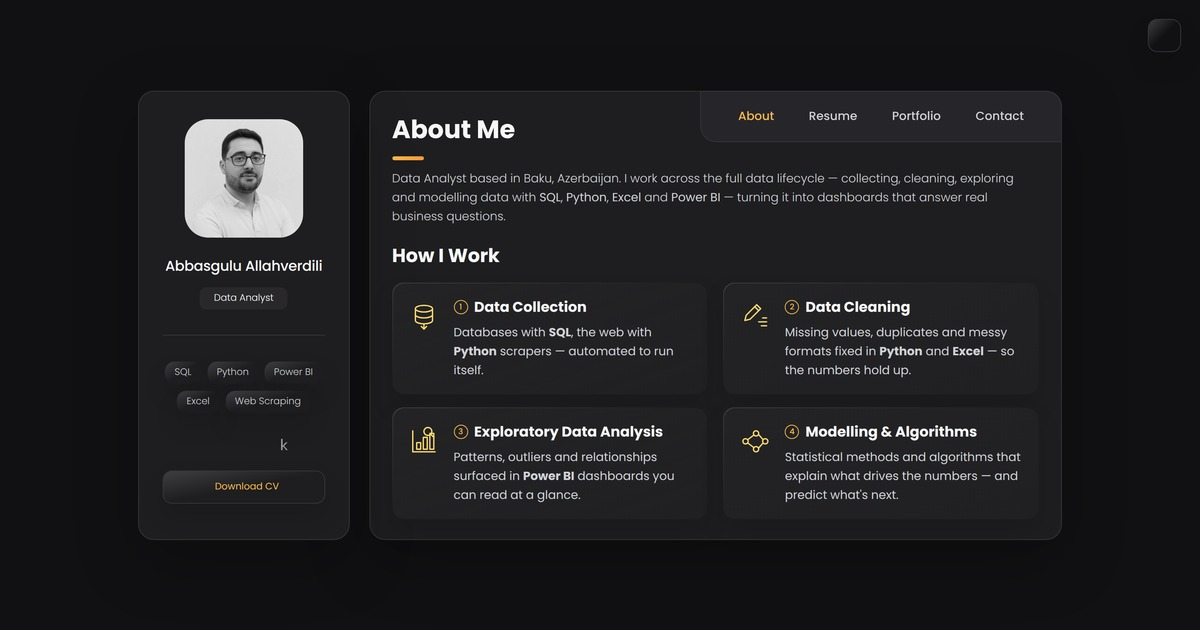
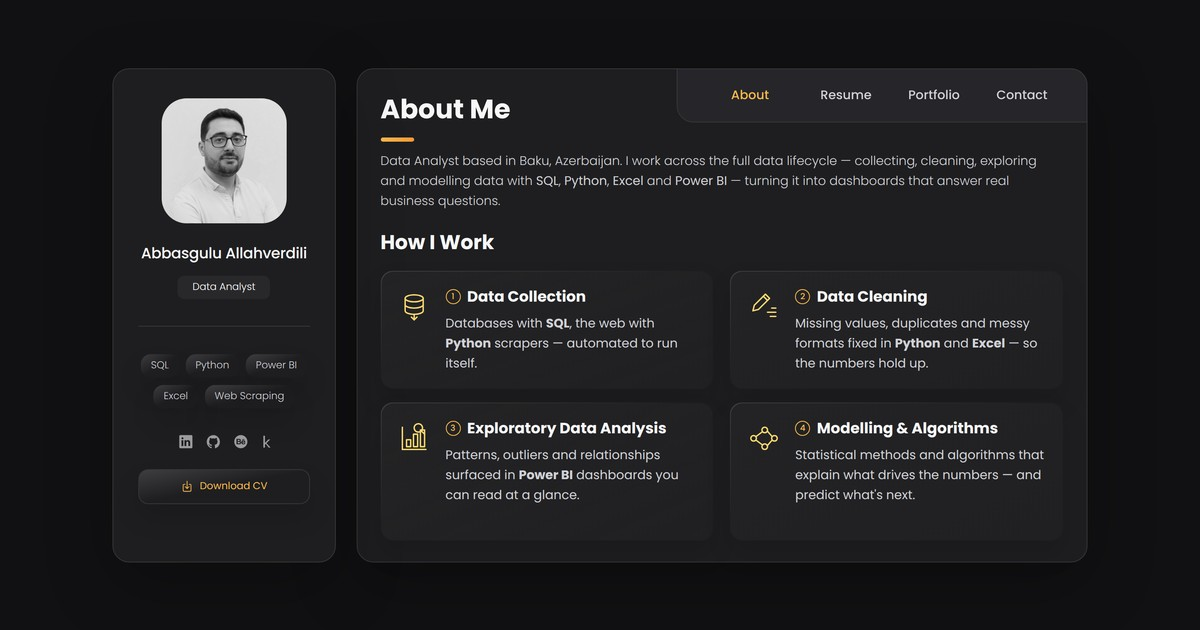
Add Azerbaijani share link and new preview cards

diff --git a/az/index.html b/az/index.html
@@ -1,0 +1,47 @@
+<!DOCTYPE html>
+<html lang="az">
+
+<head>
+  <meta charset="UTF-8">
+  <meta name="viewport" content="width=device-width, initial-scale=1.0">
+  <title>Abbasqulu Allahverdili — Data Analitik</title>
+
+  <!-- the Azerbaijani link to share: LinkedIn, WhatsApp, Telegram etc. read this page's
+       Azerbaijani preview, then visitors are sent on to the site opened in Azerbaijani -->
+  <meta name="description" content="Abbasqulu Allahverdili — Bakıda yaşayan Data Analitik. SQL, Python, Power BI. Açıq dataset-lər, web scraping və dashboard-lar.">
+  <meta name="author" content="Abbasqulu Allahverdili">
+  <meta name="robots" content="noindex, follow">
+
+  <meta property="og:type" content="website">
+  <meta property="og:locale" content="az_AZ">
+  <meta property="og:locale:alternate" content="en_US">
+  <meta property="og:title" content="Abbasqulu Allahverdili — Data Analitik">
+  <meta property="og:description" content="Bakıda yaşayan Data Analitik. SQL, Python, Power BI. Açıq dataset-lər, web scraping və dashboard-lar.">
+  <meta property="og:url" content="https://abbasgulu.github.io/az/">
+  <meta property="og:image" content="https://abbasgulu.github.io/assets/images/social-card-az.jpg">
+  <meta property="og:image:width" content="1200">
+  <meta property="og:image:height" content="630">
+  <meta name="twitter:image" content="https://abbasgulu.github.io/assets/images/social-card-az.jpg">
+  <meta name="twitter:card" content="summary_large_image">
+
+  <link rel="canonical" href="https://abbasgulu.github.io/az/">
+  <link rel="shortcut icon" href="../assets/favicon_io/favicon.ico" type="image/x-icon">
+
+  <script>
+    // keeps a page link too: /az/#portfolio -> /?lang=az#portfolio
+    location.replace("../?lang=az" + location.hash);
+  </script>
+
+  <style>
+    body { margin: 0; min-height: 100vh; display: grid; place-items: center; background: hsl(240, 4%, 7%); font-family: Poppins, sans-serif; }
+    a { color: hsl(38, 95%, 64%); }
+  </style>
+</head>
+
+<body>
+  <noscript>
+    <p><a href="../?lang=az">Saytı Azərbaycan dilində aç</a></p>
+  </noscript>
+</body>
+
+</html>

diff --git a/assets/js/script.js b/assets/js/script.js
@@ -281,6 +281,11 @@ if (lightbox && lightboxImg) {
       const next = root.getAttribute("data-lang") === "az" ? "en" : "az";
       apply(next);
       try { localStorage.setItem("lang", next); } catch (e) { /* storage blocked */ }
+
+      // opened from a ?lang= link: keep the address in step, so a reload keeps the choice
+      if (/[?&]lang=/.test(location.search) && window.history && history.replaceState) {
+        history.replaceState(null, "", location.pathname + "?lang=" + next + location.hash);
+      }
     });
   }
 })();
@@ -341,7 +346,7 @@ if (lightbox && lightboxImg) {
 //   full images   -> view-full-<project>
 //   outside links -> <project>-link-<site> (on project cards) or link-<site>
 //   filters       -> filter-sql, filter-python, ... (Portfolio)
-//   language      -> switch-to-az / switch-to-en
+//   language      -> switch-to-az / switch-to-en, opened-az-link / opened-en-link
 //   contact form  -> contact-form-sent
 (function () {
   const queue = [];
@@ -370,6 +375,10 @@ if (lightbox && lightboxImg) {
   };
   pageview();
   window.addEventListener("hashchange", pageview);
+
+  // visits that came through a language link (/az/ or ?lang=...)
+  const linkLang = (location.search.match(/[?&]lang=(az|en)(?:&|$)/) || [])[1];
+  if (linkLang) event("opened-" + linkLang + "-link", "Opened the " + linkLang.toUpperCase() + " link");
 
   const projectOf = function (el) {
     const card = el.closest(".case-item");

diff --git a/index.html b/index.html
@@ -11,6 +11,8 @@
   <meta name="author" content="Abbasgulu Allahverdili">
 
   <meta property="og:type" content="website">
+  <meta property="og:locale" content="en_US">
+  <meta property="og:locale:alternate" content="az_AZ">
   <meta property="og:title" content="Abbasgulu Allahverdili — Data Analyst">
   <meta property="og:description" content="Data Analyst based in Baku. SQL, Python, Power BI. Public datasets, scraping pipelines and dashboards.">
   <meta property="og:url" content="https://abbasgulu.github.io/">
@@ -47,11 +49,14 @@
     - saved choice wins; otherwise follow the OS setting.
   -->
   <script>
-    // language: the visitor's own choice wins; otherwise the browser's language
-    // (Azerbaijani -> AZ, anything else -> EN). Runs before paint.
+    // language: a ?lang=az / ?lang=en link wins (e.g. the shared /az/ link), then the
+    // visitor's own choice, otherwise the browser's language (Azerbaijani -> AZ,
+    // anything else -> EN). Runs before paint.
     (function () {
-      var lang = null;
-      try { lang = localStorage.getItem('lang'); } catch (e) {}
+      var lang = (location.search.match(/[?&]lang=(az|en)(?:&|$)/) || [])[1] || null;
+      if (!lang) {
+        try { lang = localStorage.getItem('lang'); } catch (e) {}
+      }
       if (lang !== 'az' && lang !== 'en') {
         lang = 'en';
         var list = navigator.languages || [navigator.language || ''];

diff --git a/README.md b/README.md
@@ -21,6 +21,8 @@ The site is in **English and Azerbaijani**. It opens in Azerbaijani when the vis
 
 Visitor statistics are collected with [GoatCounter](https://www.goatcounter.com/) (free, no cookies, so no consent banner): page views per page, CV downloads per language, project link clicks, full-size image views, language switches and sent contact-form messages. The dashboard is at https://abbasgulu.goatcounter.com.
 
+Links to share: https://abbasgulu.github.io/ shows an English preview (LinkedIn, WhatsApp, Telegram…), https://abbasgulu.github.io/az/ an Azerbaijani one and opens the site in Azerbaijani for everyone. `?lang=en` / `?lang=az` on any address forces the language too (e.g. https://abbasgulu.github.io/?lang=en#portfolio).
+
 Every page has its own address: `#about`, `#resume`, `#portfolio`, `#contact` (e.g. https://abbasgulu.github.io/#portfolio).
 
 ## Projects
@@ -38,6 +40,7 @@ Every page has its own address: `#about`, `#resume`, `#portfolio`, `#contact` (e
 
 ```
 index.html                  # single page; sections switched by JS
+az/index.html               # Azerbaijani link: Azerbaijani preview, then opens the site in AZ
 assets/
   css/style.css             # all styling (theme colours are CSS variables at the top)
   js/script.js              # navigation, theme and language toggles, mobile sidebar, form, image lightbox
@@ -47,6 +50,7 @@ assets/
     projects/               # project cover images
     projects/full/          # full-size versions opened by "View full size"
     social-card.jpg         # link preview image (LinkedIn, etc.)
+    social-card-az.jpg      # the same in Azerbaijani, used by az/
   doc/                      # CVs (EN, AZ) and certificate files
   favicon_io/               # favicons
 .nojekyll                   # tells GitHub Pages to serve files as-is
